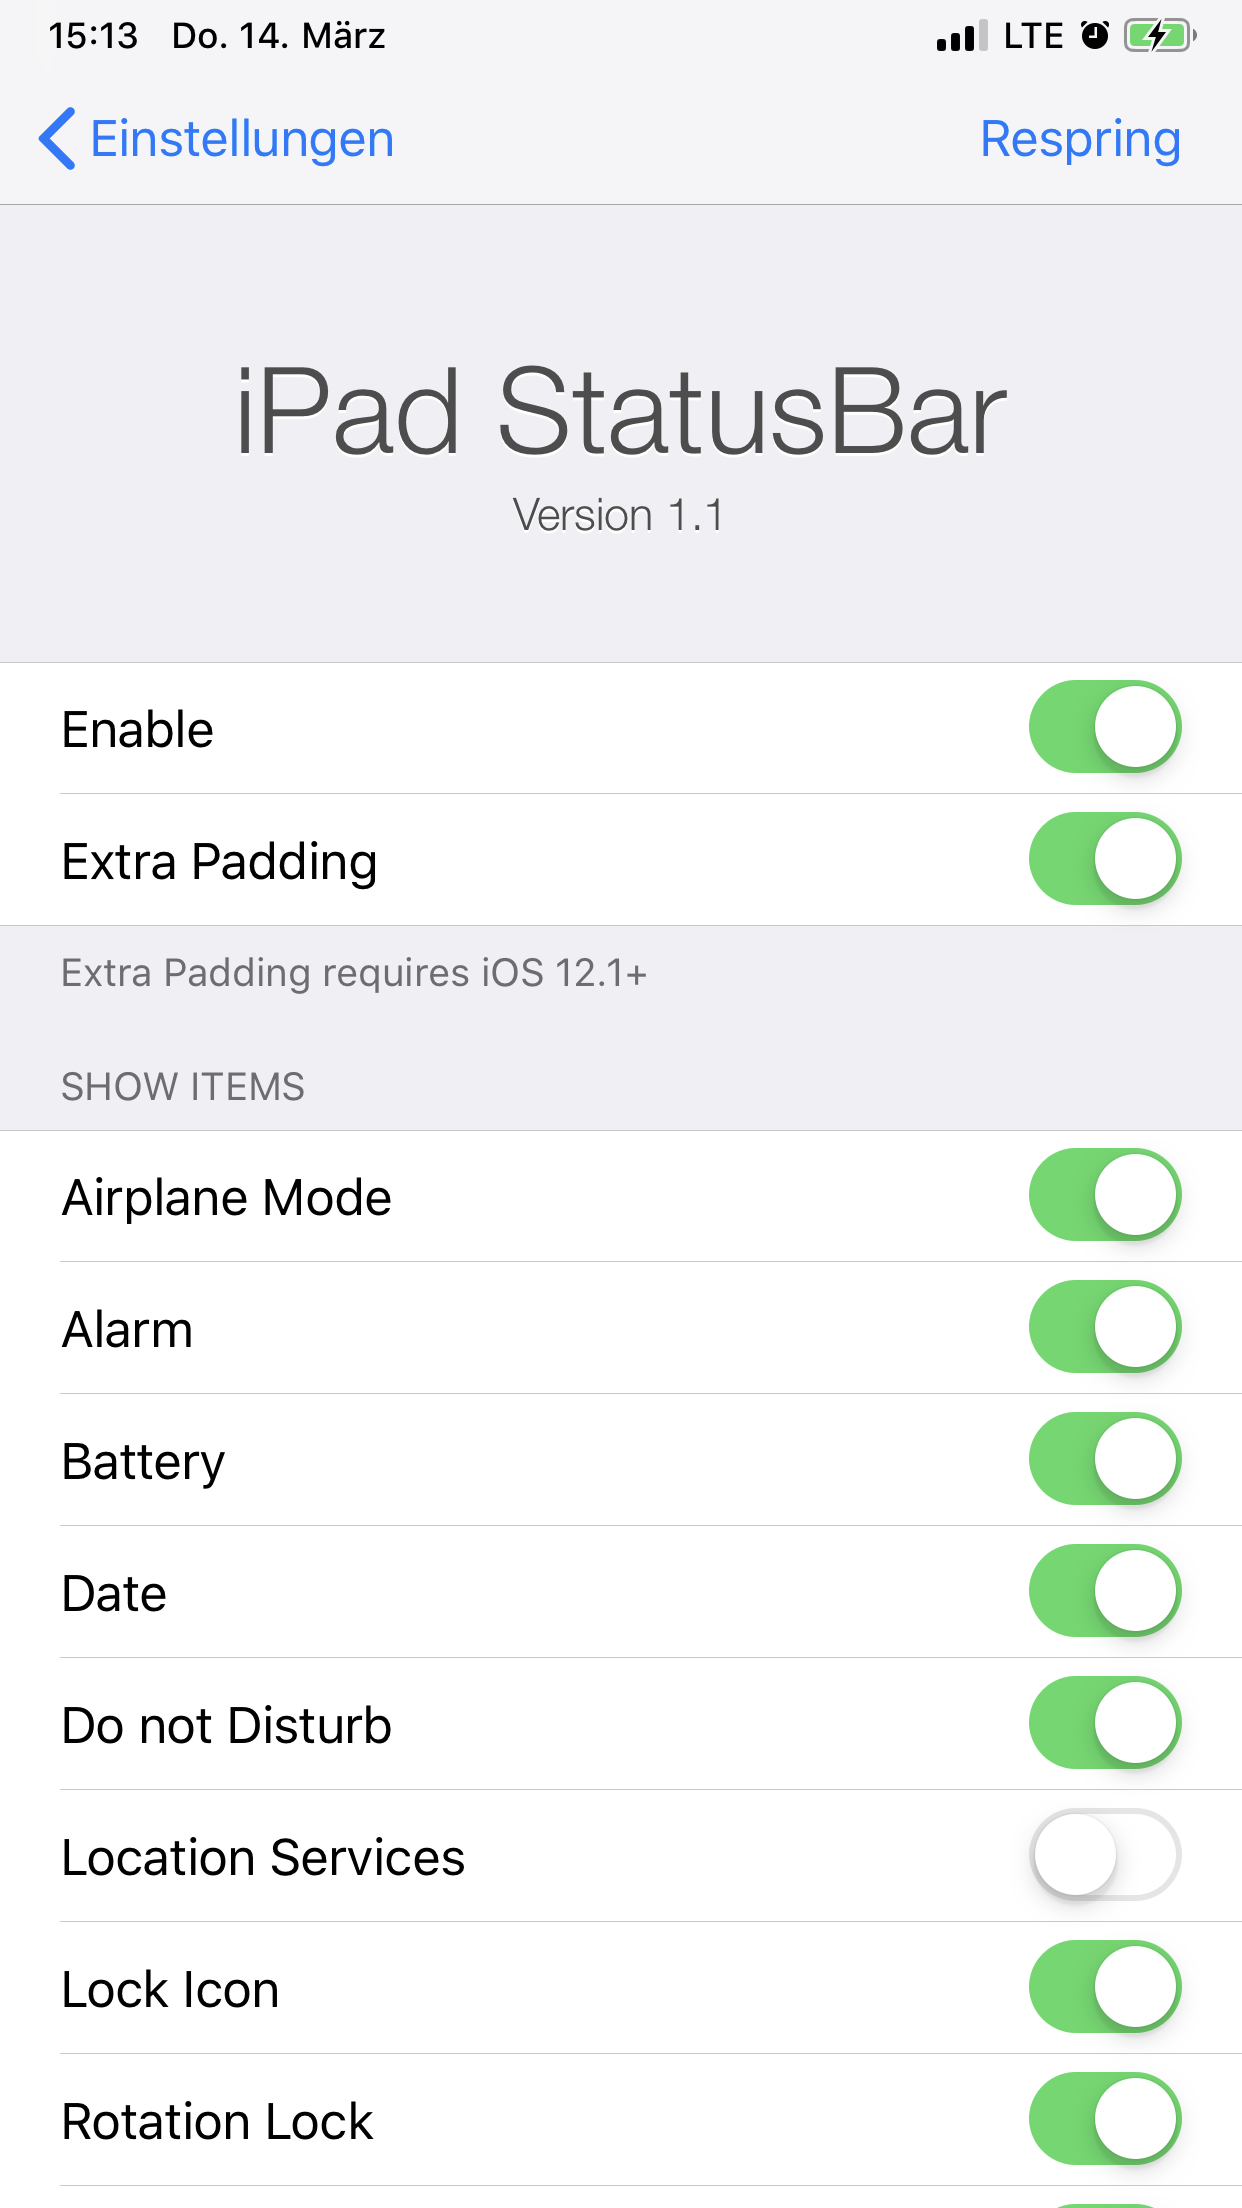
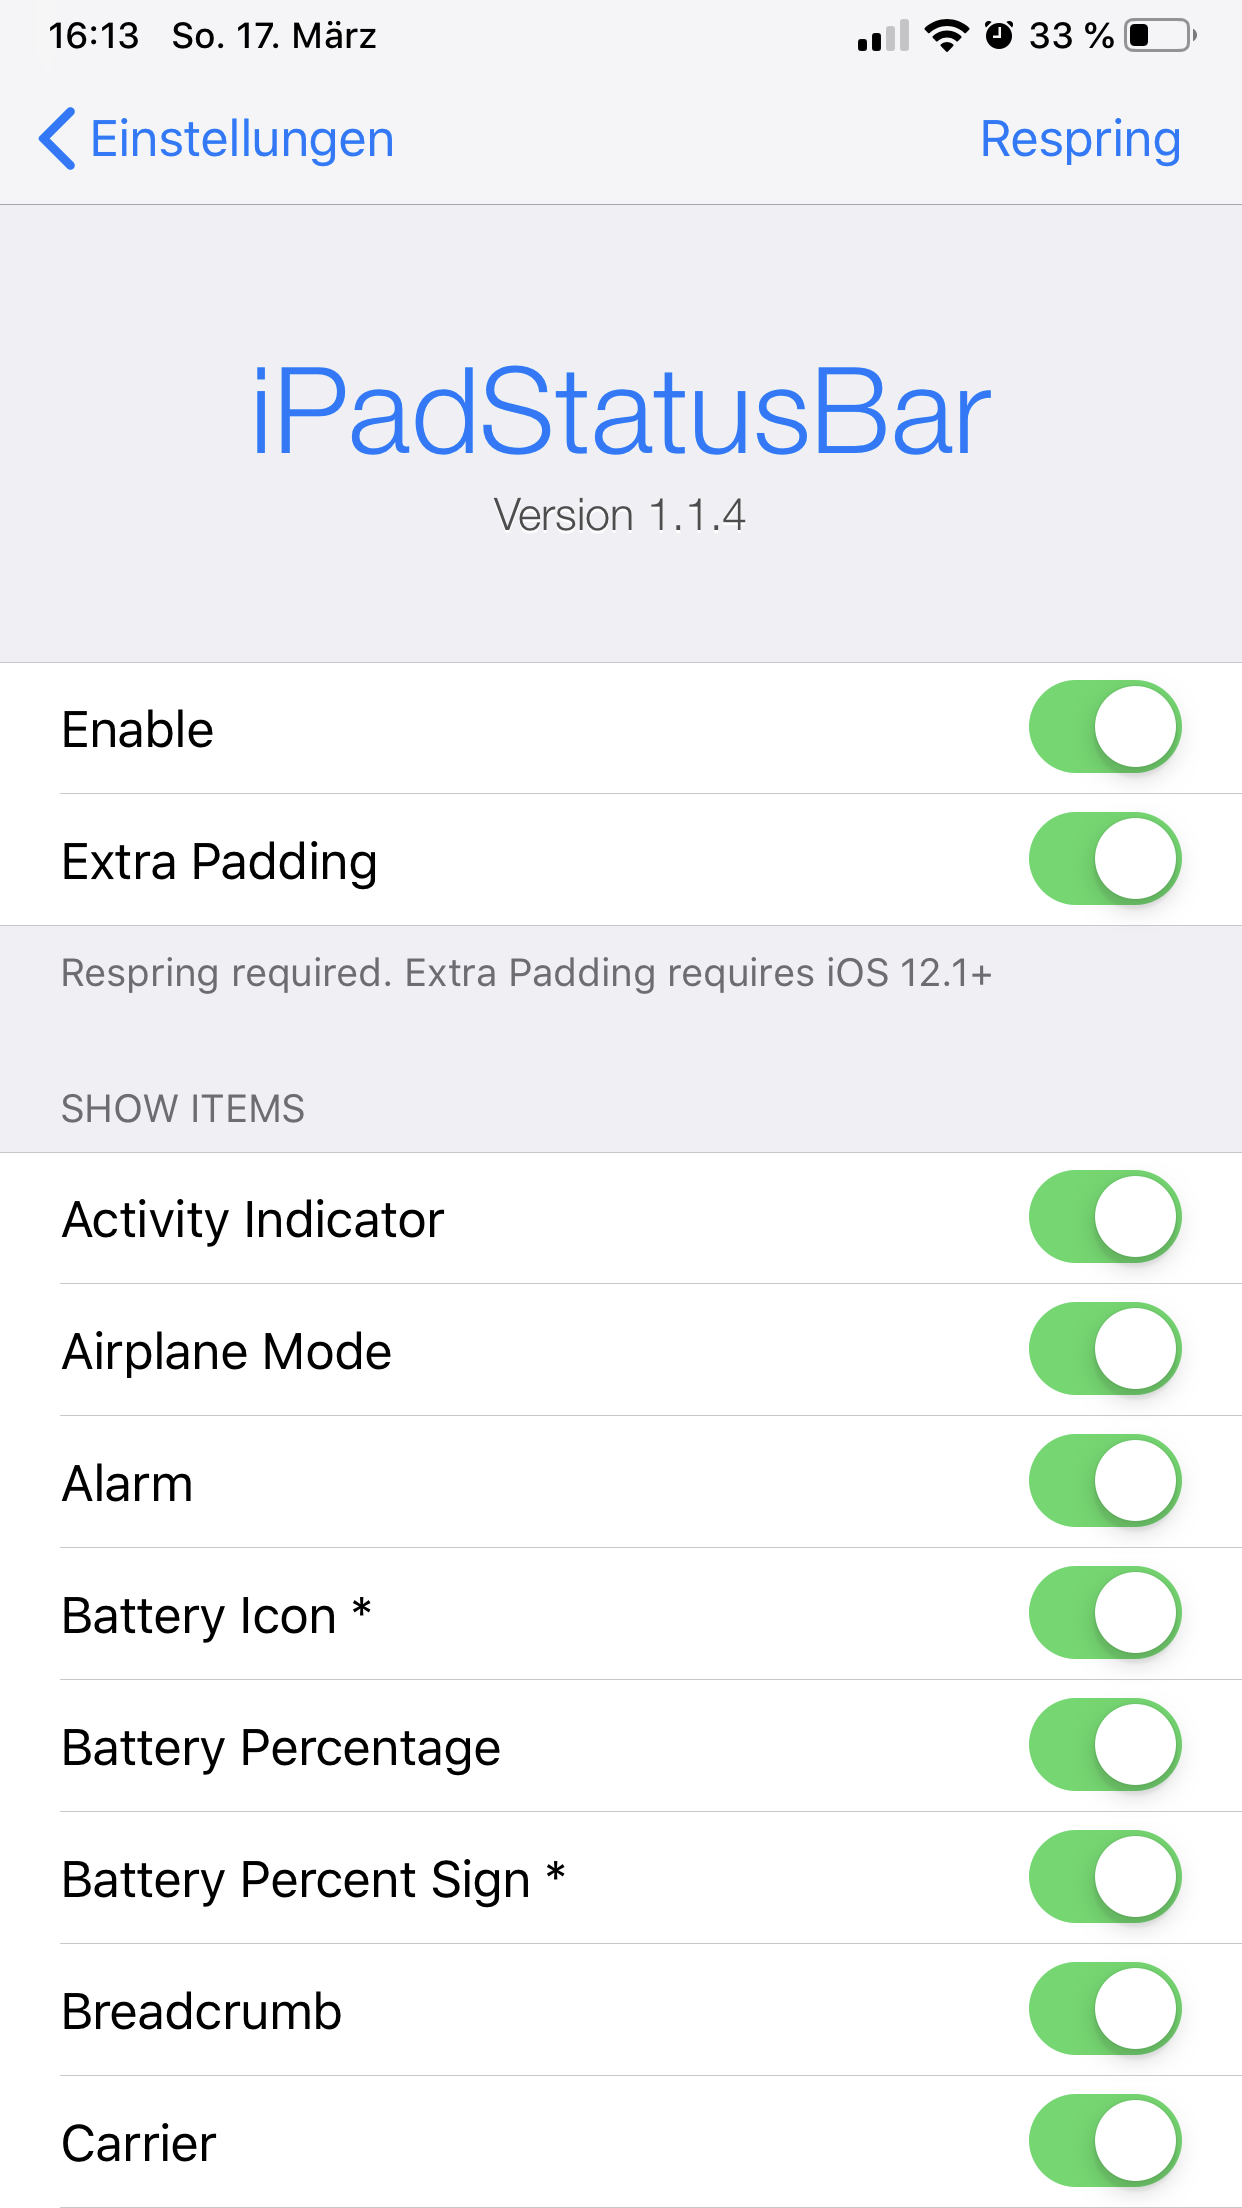
Add iPadStatusBar v1.1.4

diff --git a/apt/depictions/com.noisyflake.ipadstatusbar/depiction.html b/apt/depictions/com.noisyflake.ipadstatusbar/depiction.html
@@ -15,7 +15,18 @@
 
 <h4 class="ui header">Changelog</h4>
 <div class="ui top attached segment">
-	<div class="ui blue label">v1.1.3</div><span class="releaseDate"> - 14th March 2019</span>
+	<div class="ui blue label">v1.1.4</div><span class="releaseDate"> - 17th March 2019</span>
+	<div class="ui bulleted list">
+		<div class="item">Add "Activity Indicator" as hideable item</div>
+		<div class="item">Add "Battery Percent Sign" as hideable item</div>
+		<div class="item">Add "Time" as hideable item</div>
+		<div class="item">Allow separate hiding of Carrier, WiFi, Data Network and Signal strength</div>
+		<div class="item">Fix misbehaving "enable" toggle</div>
+		<div class="item">Add a new preferences icon</div>
+	</div>
+</div>
+<div class="ui attached segment">
+	<div class="ui label">v1.1.3</div><span class="releaseDate"> - 14th March 2019</span>
 	<div class="ui bulleted list">
 		<div class="item">Add "Breadcrumb" as hideable item</div>
 		<div class="item">Add "Battery Icon" as hideable item (requires Respring)</div>
